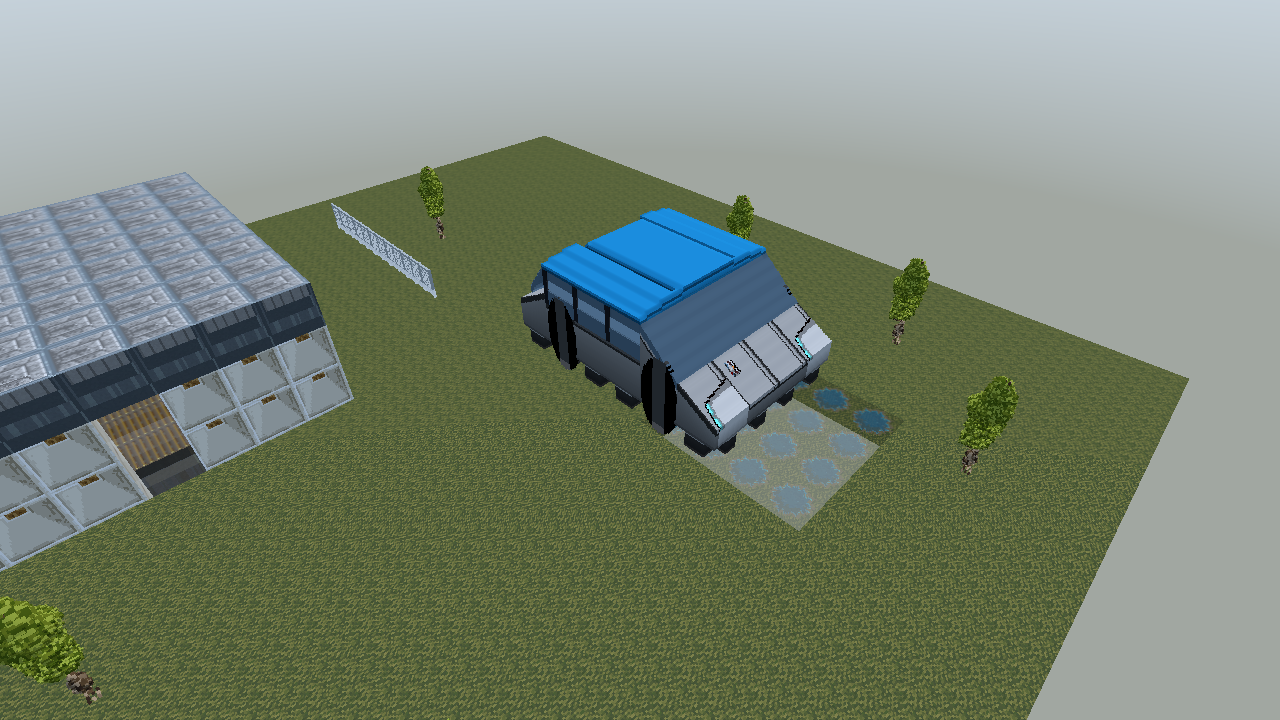
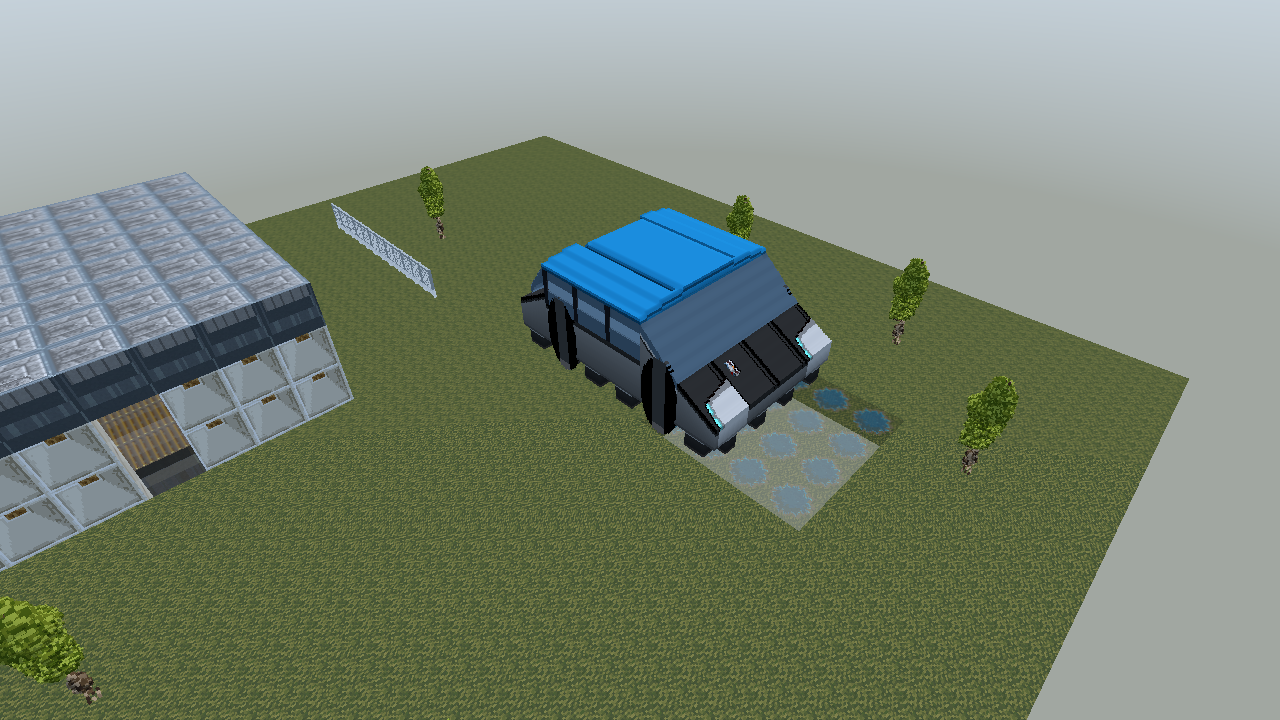
Vehicle Stage-G S3: fine composition wired into all render paths
scene_prep::vehicle_fine_scene composes fully-named vehicles
into fine prop models; the raster unlit/lit and RT props
paths merge them into the prop scene and suppress the
coarse stamp on covered tiles (stamp_vehicle_mapped_except).
Vehicles with any unnamed part stay fully coarse.

Acceptance: profile capture through the engine composer —
quad count identical to the prototype path (221,840); the
only pixel changes vs the S15 capture are the panel tops
moving onto the unified paint (0.73% of pixels, car bbox
only, raster and RT alike). Engine suite green.

Changed region(s): [[0.5312, 0.4278, 0.6562, 0.6111], [0.4062, 0.3972, 0.4375, 0.4278]]

diff --git a/crates/engine/src/scene_prep.rs b/crates/engine/src/scene_prep.rs
@@ -587,6 +587,222 @@ pub fn stamp_vehicles_mapped(
     (scene.models.len(), tiles)
 }
 
+/// [`stamp_vehicles`] skipping the given absolute tiles
+/// (Stage-G covered tiles — see [`vehicle_fine_scene`]).
+pub fn stamp_vehicles_except(
+    map: &mut mesher::chunk::ChunkMap,
+    scene: &crate::frame::VehicleScene,
+    except: &std::collections::HashSet<[i32; 3]>,
+) -> (usize, usize) {
+    let except_bt: std::collections::BTreeSet<[i32; 3]> = except.iter().copied().collect();
+    let mut tiles = 0usize;
+    for model in &scene.models {
+        let (occupied, _dirtied) = vehicles::stamp_vehicle_mapped_except(
+            map,
+            model,
+            world::HOUSE_MIN_GAME_Z,
+            &|_| vehicles::VEHICLE_BLOCK_ID,
+            &except_bt,
+        );
+        tiles += occupied.len();
+    }
+    (scene.models.len(), tiles)
+}
+
+/// First model id of the Stage-G vehicle prop allocation.
+/// Above every game def id and the vehicle material range;
+/// these ids key prop models inside a merged prop scene
+/// only, they never stamp coarse blocks.
+pub const VEHICLE_PROP_ID_BASE: u32 = 1_000_000;
+
+/// The vehicle's world rotation in stamper quarter turns,
+/// derived from the exported positions themselves (the
+/// vehicles crate's rule: positions are never recomputed
+/// from facing + mounts — this reads the rotation the game
+/// already applied, off the part with the longest mount
+/// delta from the pivot part). One turn maps (a, b) to
+/// (-b, a), the fine stamper's own mapping. Diagonal
+/// facings take the least-wrong turn.
+fn vehicle_quarter_turns(model: &vehicles::VehicleModel) -> u8 {
+    let pivot = model
+        .parts
+        .iter()
+        .min_by_key(|p| p.key.mount[0] * p.key.mount[0] + p.key.mount[1] * p.key.mount[1]);
+    let Some(pivot) = pivot else { return 0 };
+    let pm = [pivot.key.mount[0], pivot.key.mount[1]];
+    let mut best: Option<([i32; 2], [i32; 2])> = None;
+    for p in &model.parts {
+        let v = [p.key.mount[0] - pm[0], p.key.mount[1] - pm[1]];
+        if v == [0, 0] {
+            continue;
+        }
+        let w = [p.abs_pos[0] - pivot.abs_pos[0], p.abs_pos[1] - pivot.abs_pos[1]];
+        let score = v[0] * v[0] + v[1] * v[1];
+        if best.is_none_or(|(bv, _)| score > bv[0] * bv[0] + bv[1] * bv[1]) {
+            best = Some((v, w));
+        }
+    }
+    let Some((v, w)) = best else { return 0 };
+    let rot = |[a, b]: [i32; 2]| [-b, a];
+    let (mut cur, mut best_t, mut best_dot) = (v, 0u8, i64::MIN);
+    for t in 0..4u8 {
+        if cur == w {
+            return t;
+        }
+        let dot = (cur[0] * w[0] + cur[1] * w[1]) as i64;
+        if dot > best_dot {
+            best_dot = dot;
+            best_t = t;
+        }
+        cur = rot(cur);
+    }
+    best_t
+}
+
+/// Convert a voxelizer prop model to the engine's sparse
+/// palette form (first-seen colour order).
+fn prop_model_data(model: &voxelizer::PropModel) -> materials::PropModelData {
+    let mut palette: Vec<[u8; 3]> = Vec::new();
+    let mut voxels = Vec::with_capacity(model.voxels.len());
+    for v in &model.voxels {
+        match v {
+            Some(c) => {
+                let rgb = [c[0], c[1], c[2]];
+                let idx = match palette.iter().position(|p| *p == rgb) {
+                    Some(i) => i as u16,
+                    None => {
+                        palette.push(rgb);
+                        (palette.len() - 1) as u16
+                    }
+                };
+                voxels.push(idx);
+            }
+            None => voxels.push(materials::PropModelData::EMPTY),
+        }
+    }
+    materials::PropModelData {
+        size: model.size,
+        palette,
+        voxels,
+    }
+}
+
+/// Stage-G (docs/vehicle-stage-g.md §5 S3): compose a
+/// vehicle scene's fine models into a prop scene, plus the
+/// absolute tiles they cover (whose coarse stamps the
+/// caller suppresses). Sprites resolve through the tileset
+/// dir's material table — a material's top-layer image, the
+/// same image the coarse textured path samples.
+///
+/// Returns `None` when nothing composes (no vpart names, a
+/// vehicle with an unnamed part, no constructed tile): the
+/// caller then keeps today's coarse-only rendering exactly.
+/// A vehicle is composed whole or not at all — a tile is
+/// covered only when every part on it is named, so a part
+/// never renders both ways.
+pub fn vehicle_fine_scene(
+    scene: &crate::frame::VehicleScene,
+    dir: &Path,
+) -> Result<
+    Option<(
+        crate::frame::PropScene,
+        std::collections::HashSet<[i32; 3]>,
+    )>,
+    String,
+> {
+    if scene.vpart_names.is_empty() {
+        return Ok(None);
+    }
+    let table = materials::MaterialTable::load(dir).map_err(|e| format!("materials: {e}"))?;
+    let cache: std::cell::RefCell<
+        std::collections::HashMap<String, Option<image::RgbaImage>>,
+    > = Default::default();
+    let resolver = |id: &str| -> Option<image::RgbaImage> {
+        if let Some(hit) = cache.borrow().get(id) {
+            return hit.clone();
+        }
+        let img = table.get(id).and_then(|mat| {
+            image::open(dir.join(format!("blocks/layer_{:04}.png", mat.top_layer)))
+                .ok()
+                .map(|i| i.to_rgba8())
+        });
+        cache.borrow_mut().insert(id.to_string(), img.clone());
+        img
+    };
+    let mut out = crate::frame::PropScene {
+        models: Vec::new(),
+        placements: Vec::new(),
+    };
+    let mut covered: std::collections::HashSet<[i32; 3]> = Default::default();
+    let mut next_id = VEHICLE_PROP_ID_BASE;
+    for model in &scene.models {
+        if model.parts.iter().any(|p| !scene.vpart_names.contains_key(&p.key.vpart)) {
+            continue; // unnamed part: the whole vehicle stays coarse
+        }
+        let mut layout = voxelizer::vehicle::VehicleLayout::default();
+        let mut mount_abs: std::collections::HashMap<[i32; 3], [i32; 3]> = Default::default();
+        for p in &model.parts {
+            mount_abs.entry(p.key.mount).or_insert(p.abs_pos);
+            layout
+                .tiles
+                .entry((p.key.mount[0], p.key.mount[1], p.key.mount[2]))
+                .or_default()
+                .push(voxelizer::vehicle::PartSpot {
+                    base: scene.vpart_names[&p.key.vpart].clone(),
+                    roof: p.roof,
+                    open: p.open,
+                    broken: p.broken,
+                });
+        }
+        let composed = voxelizer::vehicle::compose_vehicle(&layout, &resolver);
+        if composed.is_empty() {
+            continue;
+        }
+        let turns = vehicle_quarter_turns(model);
+        for ((lx, ly, lz), pmodel) in composed {
+            let Some(abs) = mount_abs.get(&[lx, ly, lz]) else {
+                continue;
+            };
+            let level = abs[2] - world::HOUSE_MIN_GAME_Z;
+            if level < 0 {
+                continue;
+            }
+            let id = next_id;
+            next_id += 1;
+            out.models.push((id, prop_model_data(&pmodel)));
+            out.placements.push(crate::snapshot_world::FurniturePlacement {
+                x: abs[0],
+                y: abs[1],
+                level: level as u32,
+                furn_id: id,
+                quarter_turns: turns,
+            });
+            covered.insert(*abs);
+        }
+    }
+    if out.models.is_empty() {
+        return Ok(None);
+    }
+    Ok(Some((out, covered)))
+}
+
+/// Concatenate two prop scenes (ids are the caller's to
+/// keep disjoint).
+pub(crate) fn merge_prop_scenes(
+    a: &crate::frame::PropScene,
+    b: &crate::frame::PropScene,
+) -> crate::frame::PropScene {
+    crate::frame::PropScene {
+        models: a.models.iter().cloned().chain(b.models.iter().cloned()).collect(),
+        placements: a
+            .placements
+            .iter()
+            .copied()
+            .chain(b.placements.iter().copied())
+            .collect(),
+    }
+}
+
 /// First block id of the vehicle-material allocation range.
 /// Above every fake tile id, the fixture prop ids, the flat
 /// vehicle id (1000) and the prop synthetic range's working
@@ -822,6 +1038,25 @@ fn prepare_raster_fine_v(
         }
         None => props,
     };
+    // Stage-G: vehicle fine models join the prop scene;
+    // their covered tiles' coarse stamps are suppressed
+    // below (vehicle_fine_scene / docs/vehicle-stage-g.md).
+    let veh_fine = match (vehicles, textures_dir) {
+        (Some(v), Some(dir)) => vehicle_fine_scene(v, dir)?,
+        _ => None,
+    };
+    let combined;
+    let props = match &veh_fine {
+        Some((vscene, _)) => {
+            combined = merge_prop_scenes(props, vscene);
+            &combined
+        }
+        None => props,
+    };
+    let covered: std::collections::HashSet<[i32; 3]> = match &veh_fine {
+        Some((_, c)) => c.clone(),
+        None => Default::default(),
+    };
     let prep = prep_prop_spec(props, &mut spec_opt);
     if let Some(spec) = &spec_opt {
         // Coarse blocks only: stamped fine blocks already carry
@@ -829,7 +1064,7 @@ fn prepare_raster_fine_v(
         stamp_tex_layers(&mut filtered, spec);
     }
     if let Some(v) = vehicles {
-        stamp_vehicles(&mut filtered, v);
+        stamp_vehicles_except(&mut filtered, v, &covered);
     }
     let layer = stamp_props_into(&mut filtered, &props.placements, props, &prep, scale)?;
     let (meshes, stats) = mesh_filtered_fine(&filtered, &layer);
@@ -1080,12 +1315,31 @@ fn prepare_raster_lit_fine_v(
         }
         None => props,
     };
+    // Stage-G: vehicle fine models join the prop scene;
+    // their covered tiles' coarse stamps are suppressed
+    // below (vehicle_fine_scene / docs/vehicle-stage-g.md).
+    let veh_fine = match (vehicles, textures_dir) {
+        (Some(v), Some(dir)) => vehicle_fine_scene(v, dir)?,
+        _ => None,
+    };
+    let combined;
+    let props = match &veh_fine {
+        Some((vscene, _)) => {
+            combined = merge_prop_scenes(props, vscene);
+            &combined
+        }
+        None => props,
+    };
+    let covered: std::collections::HashSet<[i32; 3]> = match &veh_fine {
+        Some((_, c)) => c.clone(),
+        None => Default::default(),
+    };
     let prep = prep_prop_spec(props, &mut spec_opt);
     if let Some(spec) = &spec_opt {
         stamp_tex_layers(&mut filtered, spec);
     }
     if let Some(v) = vehicles {
-        stamp_vehicles(&mut filtered, v);
+        stamp_vehicles_except(&mut filtered, v, &covered);
     }
     apply_visibility_mask(&mut filtered, lit);
     apply_sky_exposure_alpha(&mut filtered, lit);

diff --git a/crates/engine/src/rt.rs b/crates/engine/src/rt.rs
@@ -824,8 +824,27 @@ fn render_rt_frame_props(
         world::build_fake_house(scale)
     };
     let mut filtered = world::filtered_map(&map, world::HOUSE_MIN_GAME_Z, &levels);
+    // Stage-G: vehicle fine models join the prop scene;
+    // their covered tiles' coarse stamps are suppressed.
+    let veh_fine = match (&args.vehicles, &args.textures) {
+        (Some(v), Some(dir)) => crate::scene_prep::vehicle_fine_scene(v, dir)
+            .map_err(CaptureError::Device)?,
+        _ => None,
+    };
+    let combined;
+    let props = match &veh_fine {
+        Some((vscene, _)) => {
+            combined = crate::scene_prep::merge_prop_scenes(props, vscene);
+            &combined
+        }
+        None => props,
+    };
+    let covered: std::collections::HashSet<[i32; 3]> = match &veh_fine {
+        Some((_, c)) => c.clone(),
+        None => Default::default(),
+    };
     if let Some(v) = &args.vehicles {
-        crate::scene_prep::stamp_vehicles(&mut filtered, v);
+        crate::scene_prep::stamp_vehicles_except(&mut filtered, v, &covered);
     }
     let kept: Vec<crate::snapshot_world::FurniturePlacement>;
     let placements: &[crate::snapshot_world::FurniturePlacement] = match &args.lighting {

diff --git a/crates/vehicles/src/mesh.rs b/crates/vehicles/src/mesh.rs
@@ -105,6 +105,19 @@ pub fn stamp_vehicle_mapped(
     level0_z: i32,
     block_id: &dyn Fn(&PartModel) -> u32,
 ) -> (BTreeSet<[i32; 3]>, BTreeSet<[i32; 2]>) {
+    stamp_vehicle_mapped_except(map, model, level0_z, block_id, &BTreeSet::new())
+}
+
+/// [`stamp_vehicle_mapped`] skipping the given absolute tiles
+/// entirely (Stage-G: tiles a fine vehicle model covers must
+/// not also stamp coarse — the fine model replaces them).
+pub fn stamp_vehicle_mapped_except(
+    map: &mut ChunkMap,
+    model: &VehicleModel,
+    level0_z: i32,
+    block_id: &dyn Fn(&PartModel) -> u32,
+    except: &BTreeSet<[i32; 3]>,
+) -> (BTreeSet<[i32; 3]>, BTreeSet<[i32; 2]>) {
     let scale = map.scale;
     let per = scale.blocks_per_z_level as i32;
     // Per tile: (last body part index, last roof part index).
@@ -120,6 +133,9 @@ pub fn stamp_vehicle_mapped(
     let mut occupied = BTreeSet::new();
     let mut dirtied = BTreeSet::new();
     for (pos, (body, roof)) in tiles {
+        if except.contains(&pos) {
+            continue;
+        }
         let [tx, ty, tz] = pos;
         let level = tz - level0_z;
         if level < 0 {

diff --git a/crates/vehicles/src/lib.rs b/crates/vehicles/src/lib.rs
@@ -46,7 +46,8 @@ pub mod store;
 
 pub use interp::{lerp_angle_deg, sample_vehicle, shortest_arc_deg, RenderPart, RenderVehicle};
 pub use mesh::{
-    clear_vehicle, part_state_subtile, stamp_vehicle, stamp_vehicle_mapped, VEHICLE_BLOCK_ID,
+    clear_vehicle, part_state_subtile, stamp_vehicle, stamp_vehicle_mapped,
+    stamp_vehicle_mapped_except, VEHICLE_BLOCK_ID,
 };
 pub use model::{PartKey, PartModel, VehicleModel, FLAG_BROKEN, FLAG_OPEN, FLAG_ROOF};
 pub use store::VehicleStore;

diff --git a/docs/vehicle-stage-g.md b/docs/vehicle-stage-g.md
@@ -181,3 +181,29 @@ blue tops hold at ~47% (the roof is untouched). Failing-
 first verified: with repaint disabled the on-paint share
 is 0/4006 and the gate fails. S1 occupancy gate still
 green — colouring does not move a single cell.
+
+## 9. S3 outcome (2026-11-24) — wiring
+
+`scene_prep::vehicle_fine_scene` composes every fully-named
+vehicle in a VehicleScene into fine PropModels
+(VEHICLE_PROP_ID_BASE 1,000,000, assistant-chosen) and
+returns the covered tile set; all three fine paths (raster
+unlit, raster lit, RT props) merge the result into the prop
+scene and stamp coarse vehicles with the covered tiles
+excluded (`vehicles::stamp_vehicle_mapped_except`). A
+vehicle with ANY unnamed part stays fully coarse — partial
+composition would mix two looks on one vehicle. Sprite
+resolution reads the MaterialTable's top layer PNGs from the
+textures dir; rotation is derived from mount deltas
+(exact match, else least-wrong by dot product). Coarse
+paths unchanged; voxelizer is now a real engine dependency.
+
+Acceptance: the profile capture renders through the engine
+composer (VehicleScene in, no prototype .bin). Quad count
+identical to the prototype path (221,840). Diff vs the S15
+capture: 0.73% of pixels (raster and RT alike), all inside
+the car's bounding box, every sampled transition the old
+per-part grey family moving onto the vehicle paint
+(41,41,41) — glass, wheels, sides and the blue roof are
+pixel-identical. Engine suite green (exit 0), vehicles +
+voxelizer 130/130.
